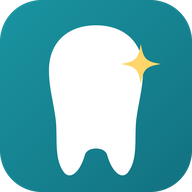
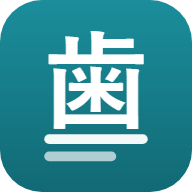
Add files via upload

diff --git a/app-tkplan/sw.js b/app-tkplan/sw.js
@@ -2,7 +2,7 @@
 // 患者データは扱わない（アプリ本体のファイルのみ保存。写真は blob: URL のため SW を経由しない）
 // ※ 中身を更新したら、下の CACHE の日付を必ず上げること。
 //    版数が同じままだと、古いキャッシュが残って更新が届かない。
-const CACHE = "tkplan-2026-07-24";
+const CACHE = "tkplan-2026-07-24b";
 const ASSETS = ["./", "./index.html", "./manifest.webmanifest", "./icon-192.png", "./icon-512.png"];
 
 self.addEventListener("install", e => {